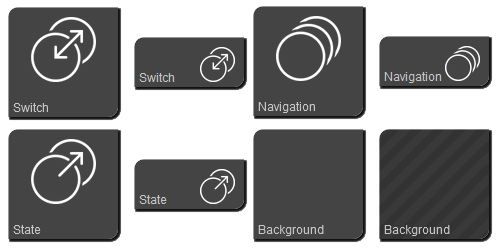
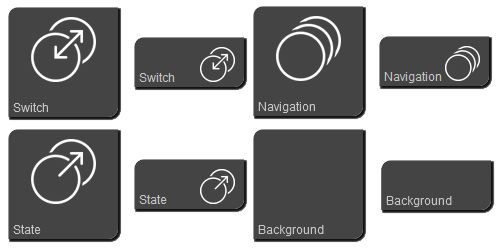
Initial commit

Changed region(s): [[0.744, 0.5, 0.9821, 0.9722]]

diff --git a/widgets/vis-inventwo.html b/widgets/vis-inventwo.html
@@ -222,3 +222,77 @@
 
 	</div>
 </script>
+
+<script id="i-vis-state-small"
+		type="text/ejs"
+		class="vis-tpl"
+		data-vis-prev='<img src="widgets/vis-inventwo/img/0_Button0.png">'
+		data-vis-attrs="oid/id;value;iText/text;iTextSize[12]/slider,0,50,1;iImage/image;iIconSize[70]/slider,0,200,1;"
+		data-vis-attrs0="group.i-css;iButtonCol[#333333]/color;iCornerRadius[10]/slider,0,50,1;iOpacity[1]/slider,0,1,0.1;"
+		data-vis-set="vis-inventwo"
+		data-vis-type="button"
+		data-vis-name="State Small">
+
+	<div class="vis-widget <%== this.data.attr('class') %> waves-effect waves-light" style="width:110px; height:50px; overflow:visible; cursor:pointer" id="<%= this.data.attr('wid') %>" >
+		<div class="vis-inventwo-class vis-widget-body <%== this.data.attr('class') %> vis-inventwo-button"
+            style="background: <%= this.data.attr('iButtonCol') %>; border-radius: <%= this.data.attr('iCornerRadius') %>px 0; opacity: <%= this.data.attr('iOpacity') %>"
+            >
+
+            <div style="padding: 7px; display: table">
+
+                <div style="display:table-cell;right: 7px; position:absolute;">
+                    <img src='<%= this.data.iImageFalse %>' width="<%= this.data.iIconSize %>">
+                </div>        
+                <div class="vis-inventwo-button-text" style="font-size: <%= this.data.iTextSize %>px;display:table-cell;">
+                    <%= this.data.iTextFalse %>
+		        </div>
+
+            </div>
+            <%= (el) -> vis.binds['vis-inventwo'].state(el, this.data) %>
+		</div>
+
+	</div>
+</script>
+
+<script id="i-vis-background-small"
+		type="text/ejs"
+		class="vis-tpl"
+		data-vis-prev='<img src="widgets/vis-inventwo/img/0_Background1.png">'
+		data-vis-attrs="oid/id;iTextFalse/text;iTextTrue/text;iTextSize[12]/slider,0,50,1;iImageFalse/image;iImageTrue/image;iIconSize[35]/slider,0,200,1;"
+		data-vis-attrs0="group.i-css;iButtonCol[#333333]/color;iButtonActive[#455618]/color;iCornerRadius[10]/slider,0,50,1;iOpacity[1]/slider,0,1,0.1;"
+		data-vis-set="vis-inventwo"
+		data-vis-type="background"
+		data-vis-name="Background Small">
+
+	<div class="vis-widget <%== this.data.attr('class') %> waves-effect waves-light" style="width:110px; height:50px; overflow:visible; cursor:pointer" id="<%= this.data.attr('wid') %>" >
+		<div class="vis-inventwo-class vis-widget-body <%== this.data.attr('class') %> vis-inventwo-button"
+        <% if(vis.states.attr(this.data.oid + '.val')) { %>
+            style="background: <%= this.data.attr('iButtonActive') %>; border-radius: <%= this.data.attr('iCornerRadius') %>px 0; opacity: <%= this.data.attr('iOpacity') %>"
+        <% } else { %>
+            style="background: <%= this.data.attr('iButtonCol') %>; border-radius: <%= this.data.attr('iCornerRadius') %>px 0; opacity: <%= this.data.attr('iOpacity') %>"
+        <% } %>
+            >
+
+            <div style="padding: 7px; display: table">
+
+            <% if(vis.states.attr(this.data.oid + '.val')) { %>
+                <div style="display:table-cell;right: 7px; position:absolute;">
+                    <img src='<%= this.data.iImageTrue %>' width="<%= this.data.iIconSize %>">
+                </div>        
+                <div class="vis-inventwo-button-text" style="font-size: <%= this.data.iTextSize %>px;display:table-cell;">
+                    <%= this.data.iTextTrue %>
+		        </div>
+            <% } else { %>
+                <div style="display:table-cell;right: 7px; position:absolute;">
+                    <img src='<%= this.data.iImageFalse %>' width="<%= this.data.iIconSize %>">
+                </div>        
+                <div class="vis-inventwo-button-text" style="font-size: <%= this.data.iTextSize %>px;display:table-cell;">
+                    <%= this.data.iTextFalse %>
+		        </div>
+            <% } %>
+
+            </div>
+		</div>
+
+	</div>
+</script>
